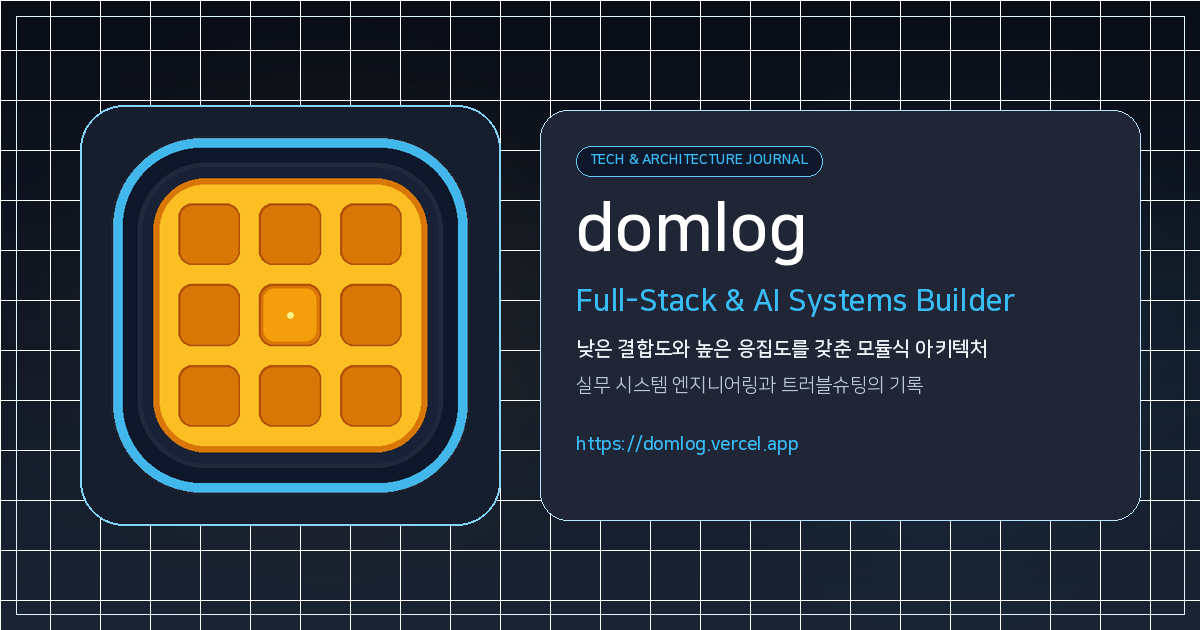
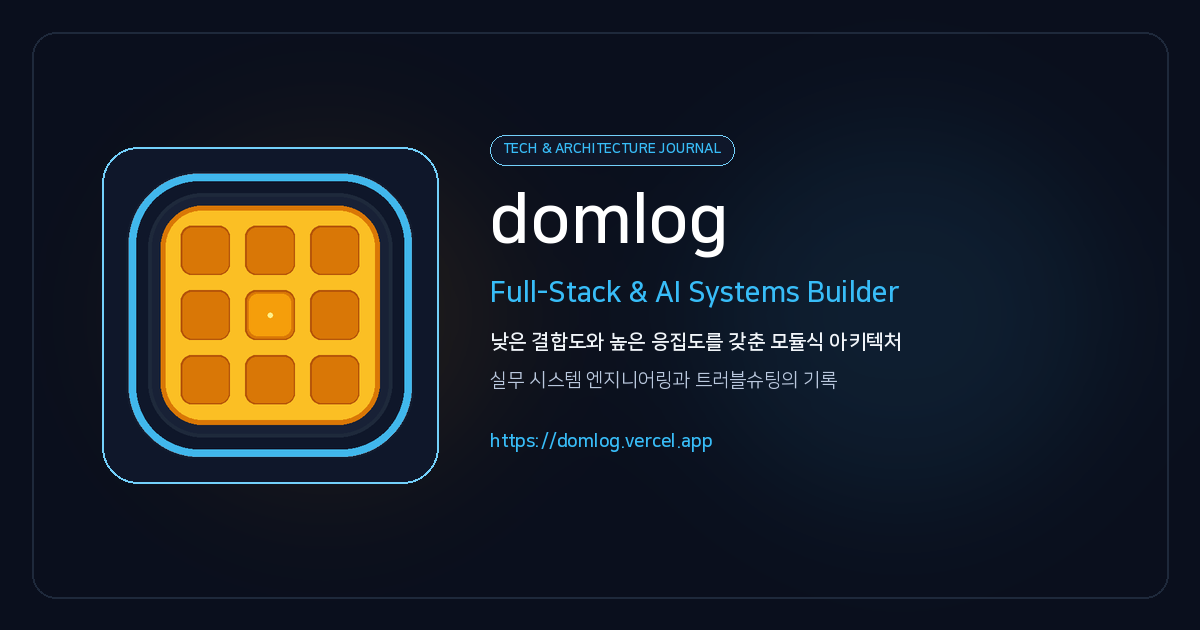
feat: 카카오톡 2:1 크롭 최적화 및 클린 모던 다크 단색 배경 OG 썸네일 적용

diff --git a/scripts/generate-assets.py b/scripts/generate-assets.py
@@ -117,104 +117,79 @@ def generate_icons(avatar):
 
 def generate_og_image(avatar):
     """
-    Requested Layout:
-    - Left: Large, crisp Waffle Keycap Profile Avatar
-    - Right: Clean, elegant Typography (Brand, Title, Tagline, Domain)
-    - Background: Subtle engineering grid pattern with ambient cyan/amber glow
-    - 1200x630 standard card
+    Requested Layout (Referencing busan-youth-day high readability & Safe Zone standard):
+    - Background: Clean, Solid Deep Modern Dark (#0a0f1d) with zero grid pattern noise
+    - Safe Zone: 100% of vital content safely contained within (x: 100~1100, y: 50~580)
+      to prevent ANY cropping in KakaoTalk 2:1 mobile link card preview
+    - Left: Sharp 3x3 Waffle Matrix Keycap (320px)
+    - Right: High-contrast, clean typography (domlog, Full-Stack & AI Systems Builder, description, URL)
     """
     width = 1200
     height = 630
     
-    img = Image.new("RGBA", (width, height), (9, 13, 22, 255))
+    # 1. Clean Deep Modern Slate/Navy solid background (Zero Grid Lines)
+    img = Image.new("RGBA", (width, height), (10, 15, 29, 255))
     draw = ImageDraw.Draw(img)
     
-    # Subtle dark background gradient
-    for y in range(height):
-        ratio = y / height
-        r = int(9 + (26 - 9) * ratio)
-        g = int(13 + (36 - 13) * ratio)
-        b = int(22 + (52 - 22) * ratio)
-        draw.line([(0, y), (width, y)], fill=(r, g, b, 255))
-        
-    # Ambient radial light: amber glow near avatar on left, sky glow on right
+    # Subtle elegant ambient accent glow (soft gradient)
     glow_canvas = Image.new("RGBA", (width, height), (0, 0, 0, 0))
     glow_draw = ImageDraw.Draw(glow_canvas)
-    glow_draw.ellipse([(80, 80), (580, 550)], fill=(245, 158, 11, 20))
-    glow_draw.ellipse([(700, 80), (1200, 580)], fill=(56, 189, 248, 18))
-    glow_canvas = glow_canvas.filter(ImageFilter.GaussianBlur(90))
+    glow_draw.ellipse([(100, 100), (550, 530)], fill=(245, 158, 11, 24))
+    glow_draw.ellipse([(650, 80), (1150, 550)], fill=(56, 189, 248, 22))
+    glow_canvas = glow_canvas.filter(ImageFilter.GaussianBlur(80))
     img = Image.alpha_composite(img, glow_canvas)
     draw = ImageDraw.Draw(img)
     
-    # Engineering Grid Lines (40px) - very subtle to keep text crystal-clear
-    grid_color = (255, 255, 255, 6)
-    for x in range(0, width, 50):
-        draw.line([(x, 0), (x, height)], fill=grid_color, width=1)
-    for y in range(0, height, 50):
-        draw.line([(0, y), (width, y)], fill=grid_color, width=1)
-        
-    # Outer Border
-    draw.rectangle([(16, 16), (width - 16, height - 16)], outline=(56, 189, 248, 40), width=1)
+    # Subtle outer safe border
+    draw.rounded_rectangle([(32, 32), (width - 32, height - 32)], radius=24, outline=(30, 41, 59, 255), width=2)
     
-    # ── LEFT: Large Waffle Keycap Avatar ──
-    avatar_size = 400
+    # ── LEFT: Waffle Keycap Avatar (Sized & Centered within Safe Zone) ──
+    # Kakao safe area: y from 40 to 590 (height 550), x from 90 to 1110
+    avatar_size = 320
     avatar_resized = avatar.resize((avatar_size, avatar_size), Image.Resampling.LANCZOS)
-    avatar_x = 90
+    avatar_x = 110
     avatar_y = (height - avatar_size) // 2
     
-    # Elevated Frame Container behind avatar
+    # Backdrop frame for the avatar
     draw.rounded_rectangle(
-        [avatar_x - 10, avatar_y - 10, avatar_x + avatar_size + 10, avatar_y + avatar_size + 10],
-        radius=44,
-        fill=(13, 20, 36, 245),
-        outline=(56, 189, 248, 160),
+        [avatar_x - 8, avatar_y - 8, avatar_x + avatar_size + 8, avatar_y + avatar_size + 8],
+        radius=36,
+        fill=(15, 23, 42, 255),
+        outline=(56, 189, 248, 180),
         width=2
     )
     img.paste(avatar_resized, (avatar_x, avatar_y), avatar_resized)
     
-    # ── RIGHT: Clean Typography & Role Statement (High Contrast Slate-900 Glass Card) ──
-    card_x = 540
-    card_y = 110
-    card_w = 600
-    card_h = 410
-    # Text card backdrop panel for maximum contrast against grid
-    draw.rounded_rectangle(
-        [card_x, card_y, card_x + card_w, card_y + card_h],
-        radius=28,
-        fill=(13, 20, 36, 235),
-        outline=(56, 189, 248, 90),
-        width=1
-    )
-    
-    text_x = card_x + 36
-    content_y = card_y + 36
+    # ── RIGHT: Clean High-Contrast Typography ──
+    text_x = 490
+    content_y = 135
     
     # 1. Category Pill
     pill_font = get_font(FONT_BOLD, 14)
     pill_text = "TECH & ARCHITECTURE JOURNAL"
     pbbox = draw.textbbox((0, 0), pill_text, font=pill_font)
-    pw = (pbbox[2] - pbbox[0]) + 28
-    draw.rounded_rectangle([text_x, content_y, text_x + pw, content_y + 30], radius=15, fill=(15, 23, 42, 255), outline=(56, 189, 248, 200), width=1)
-    draw.text((text_x + 14, content_y + 6), pill_text, font=pill_font, fill=(56, 189, 248, 255))
+    pw = (pbbox[2] - pbbox[0]) + 26
+    draw.rounded_rectangle([text_x, content_y, text_x + pw, content_y + 30], radius=15, fill=(15, 23, 42, 255), outline=(56, 189, 248, 180), width=1)
+    draw.text((text_x + 13, content_y + 6), pill_text, font=pill_font, fill=(56, 189, 248, 255))
     
     # 2. Main Brand Name: domlog
-    brand_font = get_font(FONT_BOLD, 66)
-    draw.text((text_x, content_y + 46), "domlog", font=brand_font, fill=(255, 255, 255, 255))
+    brand_font = get_font(FONT_BOLD, 68)
+    draw.text((text_x, content_y + 48), "domlog", font=brand_font, fill=(255, 255, 255, 255))
     
     # 3. Modern Role Headline: Full-Stack & AI Systems Builder
-    role_font = get_font(FONT_BOLD, 30)
-    draw.text((text_x, content_y + 138), "Full-Stack & AI Systems Builder", font=role_font, fill=(56, 189, 248, 255))
+    role_font = get_font(FONT_BOLD, 28)
+    draw.text((text_x, content_y + 142), "Full-Stack & AI Systems Builder", font=role_font, fill=(56, 189, 248, 255))
     
-    # 4. Value Statement / Description
+    # 4. Value Statement / Description (Crisp White / Silver)
     desc_font = get_font(FONT_BOLD, 20)
-    draw.text((text_x, content_y + 192), "낮은 결합도와 높은 응집도를 갖춘 모듈식 아키텍처", font=desc_font, fill=(241, 245, 249, 255))
+    draw.text((text_x, content_y + 196), "낮은 결합도와 높은 응집도를 갖춘 모듈식 아키텍처", font=desc_font, fill=(241, 245, 249, 255))
     
     desc_sub_font = get_font(FONT_REGULAR, 19)
-    draw.text((text_x, content_y + 228), "실무 시스템 엔지니어링과 트러블슈팅의 기록", font=desc_sub_font, fill=(186, 200, 222, 255))
+    draw.text((text_x, content_y + 234), "실무 시스템 엔지니어링과 트러블슈팅의 기록", font=desc_sub_font, fill=(186, 200, 222, 255))
     
     # 5. Domain / Link Footer
     url_font = get_font(FONT_BOLD, 18)
-    draw.text((text_x, content_y + 288), "https://domlog.vercel.app", font=url_font, fill=(56, 189, 248, 255))
+    draw.text((text_x, content_y + 296), "https://domlog.vercel.app", font=url_font, fill=(56, 189, 248, 255))
 
     out_path = os.path.join(PUBLIC_DIR, "og-image.png")
     img.save(out_path, "PNG", optimize=True)
